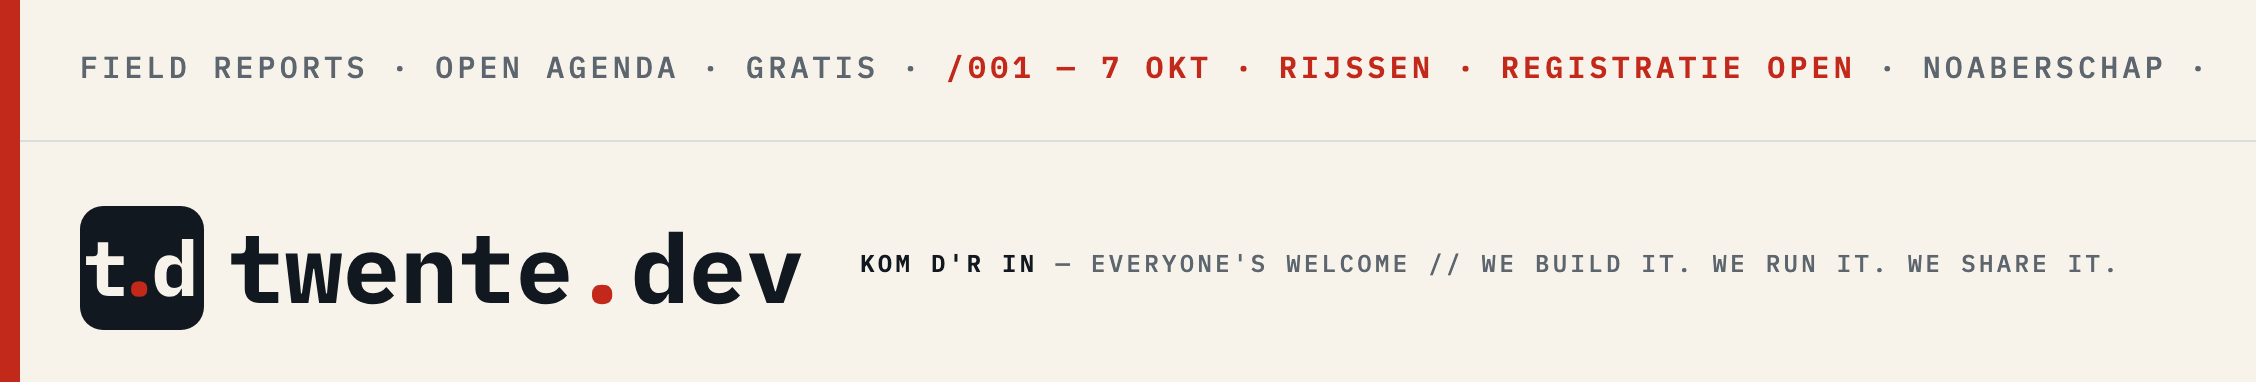
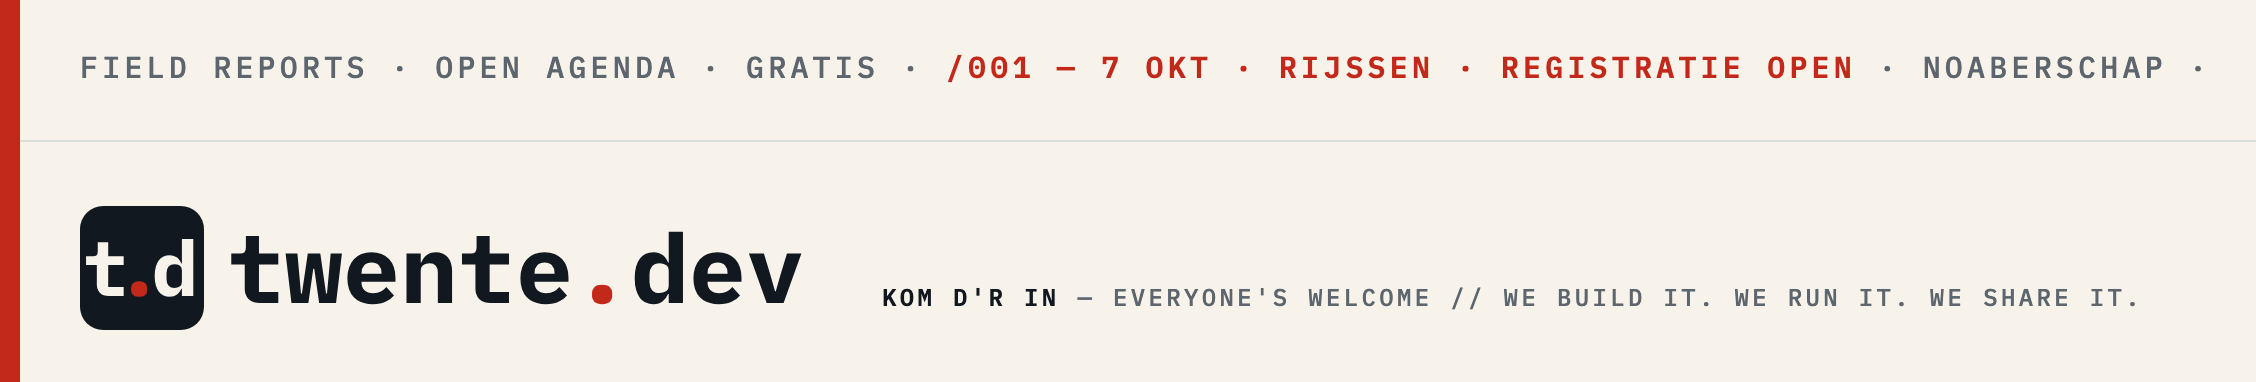
fix(brand): vertrekbord-tagline op de baseline van het woordmerk
De regel zweefde op eigen hoogte naast de lockup; nu deelt hij de
baseline van het woordmerk (berekend uit de lockup-schaal, niet op het
oog) en staat hij op een vaste 40px van het merk.

Changed region(s): [[0.3723, 0.6623, 0.9309, 0.7199], [0.3723, 0.7487, 0.9309, 0.8063]]

diff --git a/docs/brand/templates/banners.html b/docs/brand/templates/banners.html
@@ -493,7 +493,7 @@
         <div class="lk" style="left: 40px; bottom: 26px; height: 62px">
           <svg viewBox="0 0 930.837 160"><use href="#lock-ink" /></svg>
         </div>
-        <div class="ticker" style="left: 430px; right: 24px; bottom: 52px; font-size: 12px"><b>kom d'r in</b><span> — everyone's welcome // we build it. we run it. we share it.</span></div>
+        <div class="ticker" style="left: 441px; right: 24px; bottom: 36px; font-size: 12px; line-height: 1"><b>kom d'r in</b><span> — everyone's welcome // we build it. we run it. we share it.</span></div>
       </div>
     </div>
 
@@ -506,7 +506,7 @@
         <div class="lk" style="left: 40px; bottom: 26px; height: 62px">
           <svg viewBox="0 0 930.837 160"><use href="#lock-paper" /></svg>
         </div>
-        <div class="ticker" style="left: 430px; right: 24px; bottom: 52px; font-size: 12px"><b>kom d'r in</b><span> — everyone's welcome // we build it. we run it. we share it.</span></div>
+        <div class="ticker" style="left: 441px; right: 24px; bottom: 36px; font-size: 12px; line-height: 1"><b>kom d'r in</b><span> — everyone's welcome // we build it. we run it. we share it.</span></div>
       </div>
     </div>
 
